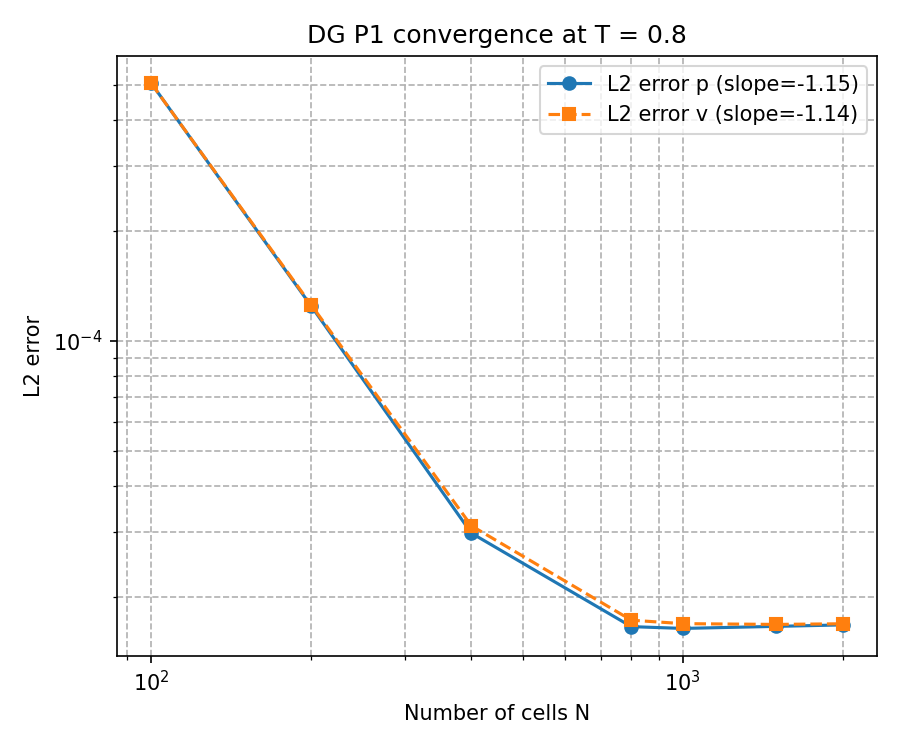
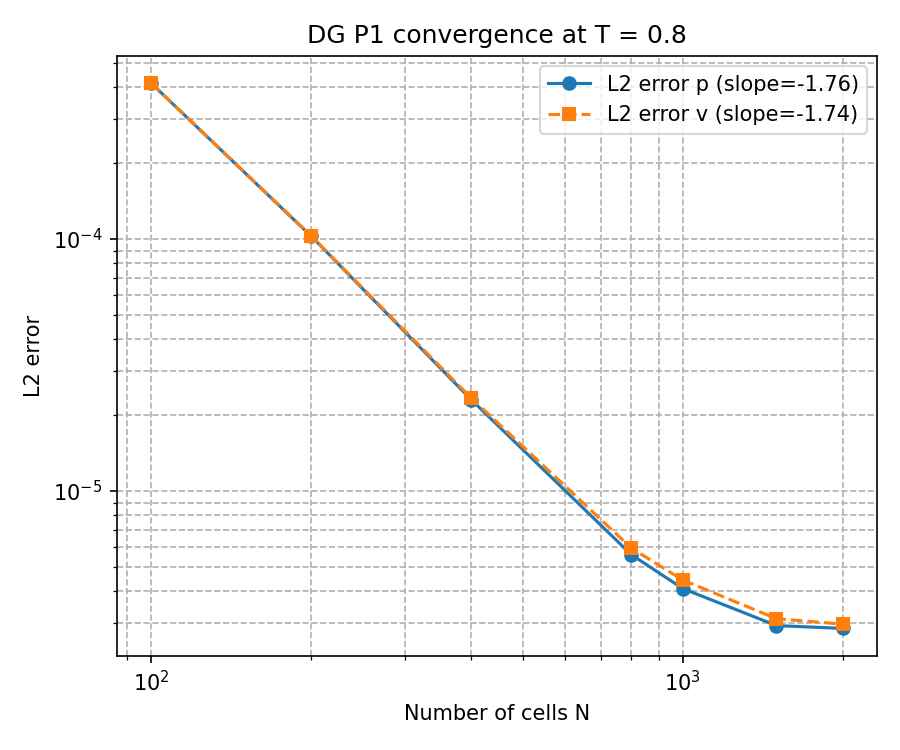
fixed test

diff --git a/test.py b/test.py
@@ -1,6 +1,7 @@
 import jax
 import jax.numpy as jnp
 import pytest
+import json
 
 from dg_solver.mesh import create_uniform_nodes_with_ghosts, cell_edges_from_nodes
 from dg_solver.mass_matrix import local_mass_inv_system
@@ -24,16 +25,39 @@ def test_convergence_rate(method, slope_min, slope_max):
     # ------------------------------------------------------------------
     # Parameters
     # ------------------------------------------------------------------
+
+    #------------------------------------------------------------------------------
+    # Read parameters from json file
+    #------------------------------------------------------------------------------
+    with open("utils/parameters.json", "r") as f:
+        params = json.load(f)
+
+        solver_params = params["solver_params"]
+        left_bc_parameters = params["left_bc_params"]
+        right_bc_parameters = params["right_bc_params"]
+
+        # Extract solver parameters
+        c = solver_params["c"]
+        S_star = solver_params["S_star"]
+
+        # Extract parameters for left BC
+        gamma = left_bc_parameters["gamma"]
+        epsilon = left_bc_parameters["epsilon"]
+        kappa = left_bc_parameters["kappa"]
+        f_r = left_bc_parameters["f_r"]
+        Qr = left_bc_parameters["Qr"]
+        zeta = left_bc_parameters["zeta"]
+
+        # Extract parameters for right BC
+        beta = right_bc_parameters["beta"]
+        Z = right_bc_parameters["Z"] #Z_T
+        alpha = right_bc_parameters["alpha"]
+
     L = 2.0
     T = 0.5
     CFL = 0.05
     Ns = [100, 200, 400, 800]
     type_S = "const"
-
-    c = 1.0
-    alpha = 0.1
-    beta = 0.2
-    Z = 1.0
     
 
     A = jnp.array([[0.0, 1.0],
@@ -41,7 +65,7 @@ def test_convergence_rate(method, slope_min, slope_max):
 
     smax = c * jnp.max(jnp.abs(jnp.linalg.eigvals(A)))
 
-    bc = BC(type="dirichlet", left=(0.0, 0.0), right=(0.0, 0.0))
+    bc = BC(type="dirichlet", left=(0.0, 0.0))
 
     def p0(x): return init_func(x, L, phi0=1.0)
     def v0(x): return 0.0
@@ -76,18 +100,21 @@ def test_convergence_rate(method, slope_min, slope_max):
         h = xRs[0] - xLs[0]
         dt = CFL * h / c
         nsteps = int(jnp.ceil(T / dt))
+        
 
         if method == "euler":
-            u, _ = time_integrate_euler(
-                u0, x_nodes, c, smax,
+            u, _, _ = time_integrate_euler(
+                u0, x_nodes, c,
                 dt, nsteps, Mp_inv, Mv_inv,
-                bc, 0.0, beta, Z, alpha
+                bc, 0.0, beta, Z, alpha,
+                snapshot_steps=[nsteps]
             )
         else:
-            u, _ = time_integrate_rk2(
-                u0, x_nodes, c, smax,
+            u, _, _ = time_integrate_rk2(
+                u0, x_nodes, c,
                 dt, nsteps, Mp_inv, Mv_inv,
-                bc, 0.0, beta, Z, alpha
+                bc, 0.0, beta, Z, alpha,
+                snapshot_steps=[nsteps]
             )
 
         x_plot = jnp.linspace(0.0, L, 3000)

diff --git a/pressure_at_bell.py b/pressure_at_bell.py
@@ -161,7 +161,7 @@ def main():
     nsteps = int(jnp.ceil(T_max/ dt))
 
     # To store snapshots for plot
-    snapshot_steps = jnp.array([int(i * nsteps / 100) for i in range(1, 101)])
+    snapshot_steps = jnp.array([int(i * nsteps / 300) for i in range(1, 301)])
     print(f"  Snapshot steps: {snapshot_steps}")
     snapshots = {}
 
